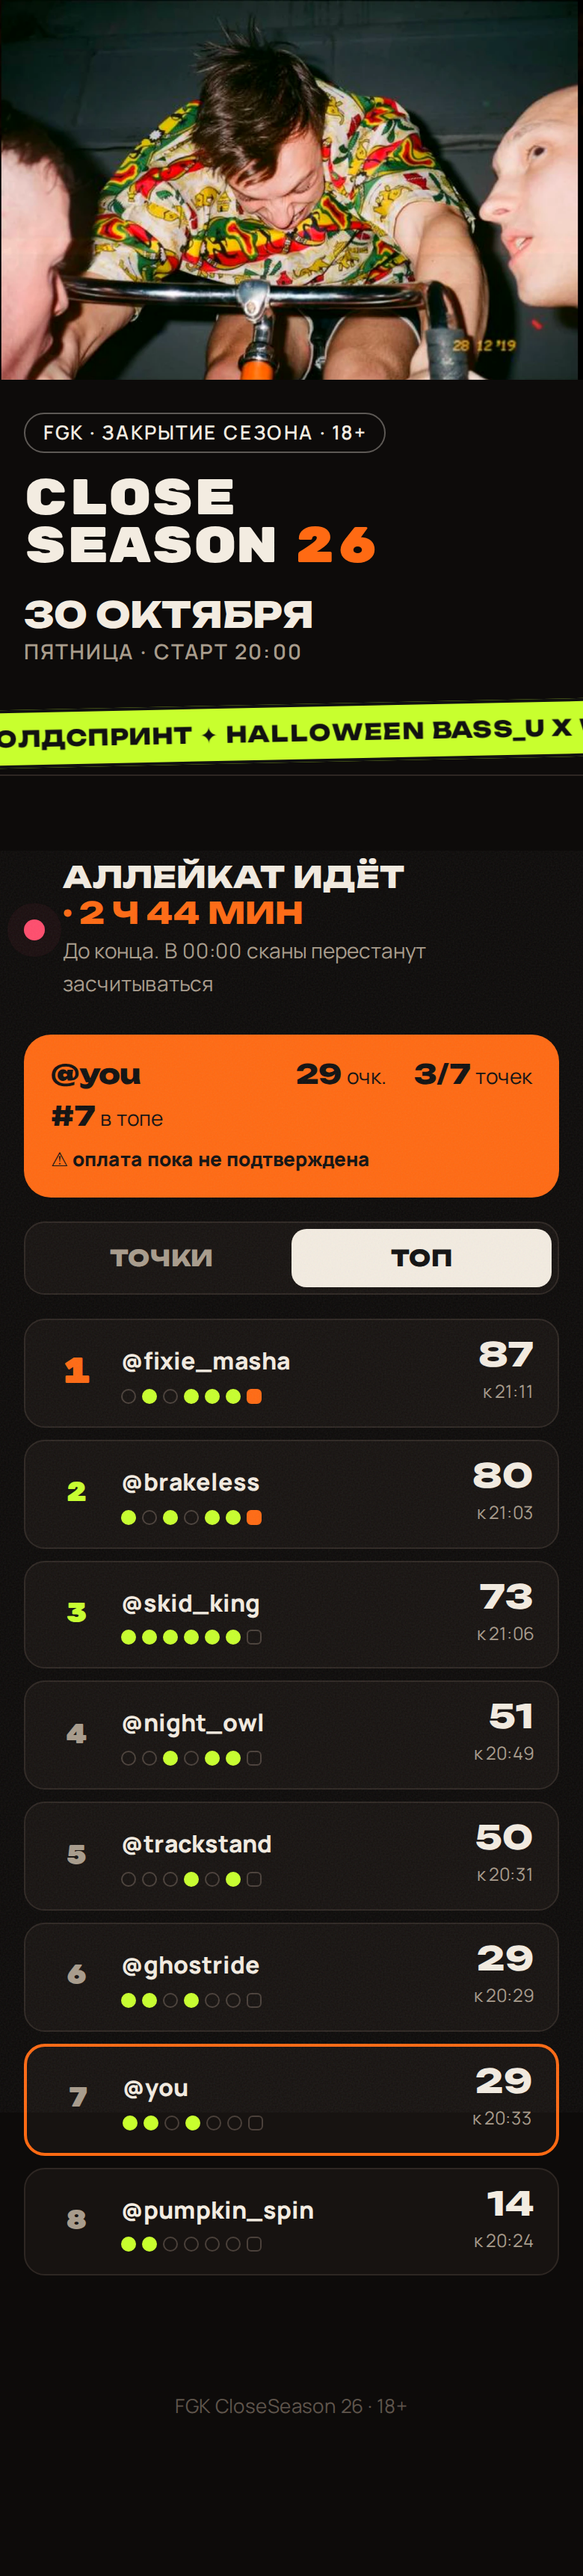
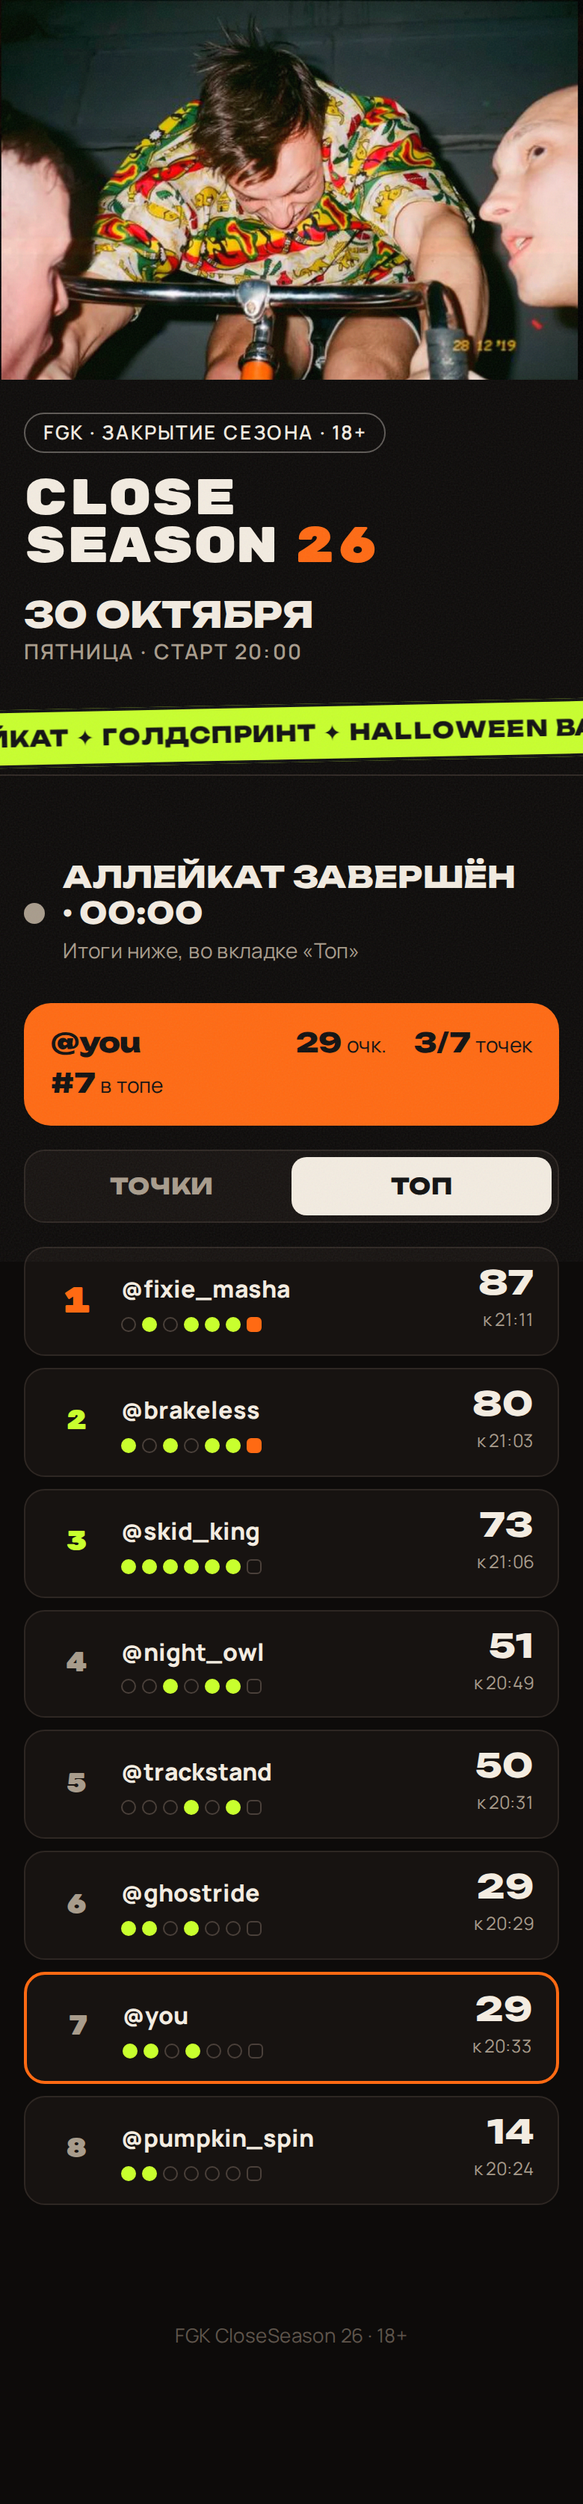
Во время гонки топ и «кто где был» скрыты от гонщиков
- сервер не отдаёт топ во время гонки; видно организатору (тестовый режим)
  и всем после конца аллейката
- гонщик видит свои отметки (статус «me»), без места и очков
- вкладка «Топ» появляется только когда топ открыт; демо-режим «Итоги»

Claude-Session: https://claude.ai/code/session_0122weFEyBkPzVmy7e3pz2TB

diff --git a/app.js b/app.js
@@ -30,6 +30,7 @@
   let clockOffset = 0; // серверное время − локальное
   let user = null; // { nick }
   let pendingScan = null; // скан, сделанный до входа
+  let myScans = []; // свои отметки: [[id точки, время]] — топ во время гонки скрыт
   let payment = null; // { amount, paid } - статус оплаты участника
 
   const now = () => Date.now() + clockOffset;
@@ -120,9 +121,11 @@
         return far ? { lat: c.lat + 0.015, lng: c.lng + 0.02, accuracy: 12 } : { lat: c.lat + 0.0002, lng: c.lng + 0.0002, accuracy: 12 };
       },
       async state() {
-        const t = mode === "reg" || mode === "pay" ? Date.now() : at(75);
-        const s = { now: t, start: START, end: Date.parse(R.end), radius: R.radius, open: t >= START };
-        if (s.open) Object.assign(s, { checkpoints: R.checkpoints, leaderboard: board() });
+        const END = Date.parse(R.end);
+        const t = mode === "reg" || mode === "pay" ? Date.now() : mode === "results" ? END + 10 * MIN : at(75);
+        const s = { now: t, start: START, end: END, radius: R.radius, open: t >= START, results: t > END };
+        if (s.open) s.checkpoints = R.checkpoints;
+        if (s.results) s.leaderboard = board(); // во время гонки топ скрыт
         return s;
       },
       async register(v) {
@@ -133,7 +136,7 @@
       },
       async me(nick) {
         const n = cleanNick(nick);
-        return { ok: true, nick: n, ...(regs[n] || { amount: price("М"), paid: false }) };
+        return { ok: true, nick: n, ...(regs[n] || { amount: price("М"), paid: false }), scans: n === R.demoUser.nick ? mine : [] };
       },
       async login(nick) {
         const n = cleanNick(nick);
@@ -205,10 +208,13 @@
 
   const cpName = (id) => ((state && state.checkpoints) || []).find((c) => c.id === id)?.name || "Точка";
 
+  // топ и «кто где был» приходят только организатору и после конца аллейката
+  const resultsOpen = () => Boolean(state && state.leaderboard);
+
   function myRow() {
     const board = (state && state.leaderboard) || [];
     const i = board.findIndex((r) => r.nick === user.nick);
-    return i >= 0 ? { ...board[i], place: i + 1 } : { nick: user.nick, score: 0, scans: [], place: null };
+    return i >= 0 ? { ...board[i], place: i + 1 } : { nick: user.nick, score: null, scans: myScans, place: null };
   }
 
   /* ================= загрузка ================= */
@@ -274,8 +280,11 @@
     $("race-join").hidden = Boolean(user);
     $("me").hidden = !user;
     if (user) renderMe();
+    // вкладка «Топ» только когда топ открыт
+    document.querySelector(".tabs").hidden = !resultsOpen();
+    if (!resultsOpen() && !$("tab-top").hidden) document.querySelector('[data-tab="points"]').click();
     renderCheckpoints();
-    renderBoard();
+    if (resultsOpen()) renderBoard();
   }
 
   // обычные точки (без финиша)
@@ -285,11 +294,12 @@
     const me = myRow();
     $("me").innerHTML =
       '<span class="me__nick">@' + esc(me.nick) + "</span>" +
-      '<span class="me__stat"><b>' + me.score + "</b> очк.</span>" +
+      (resultsOpen() ? '<span class="me__stat"><b>' + (me.score || 0) + "</b> очк.</span>" : "") +
       '<span class="me__stat"><b>' + me.scans.length + "/" + state.checkpoints.length + "</b> точек</span>" +
-      '<span class="me__stat me__place"><b>' + (me.place ? "#" + me.place : "-") + "</b> в топе</span>" +
+      (resultsOpen() ? '<span class="me__stat me__place"><b>' + (me.place ? "#" + me.place : "-") + "</b> в топе</span>" : "") +
       (payment && !payment.paid ? '<span class="me__warn">оплата пока не подтверждена</span>' : "");
   }
+
 
   // кто и когда уже отметил точку — по порядку прибытия
   function arrivals(cpId) {
@@ -316,8 +326,10 @@
           '<div class="cp__body">' +
           (c.final ? '<span class="cp__flag">финиш</span>' : "") +
           "<h3>" + esc(c.name) + "</h3>" +
-          '<p class="cp__meta">' + (n ? "приехали: " + n : "пока никого") +
-            (t ? ' · <b class="cp__mine">ты ' + (t[1] ? t[1] + "-й" : "✓") + "</b>" : "") + "</p>" +
+          '<p class="cp__meta">' +
+            (resultsOpen()
+              ? (n ? "приехали: " + n : "пока никого") + (t ? ' · <b class="cp__mine">ты ' + (t[1] ? t[1] + "-й" : "✓") + "</b>" : "")
+              : t ? '<b class="cp__mine">✓ взята в ' + fmtTime(t[0]) + "</b>" : user ? "не взята" : "") + "</p>" +
           "</div>" +
           (c.photo
             ? '<img class="cp__thumb" src="' + esc(preview(c.photo, 160)) + '" alt="" loading="lazy" onerror="this.remove()">'
@@ -355,6 +367,7 @@
           '<a class="cpd__photo" href="' + esc(c.qrPhoto) + '" target="_blank" rel="noopener" title="Открыть фото целиком">' +
           '<img src="' + esc(preview(c.qrPhoto)) + '" alt="Где висит QR: ' + esc(c.name) + '" loading="lazy" onerror="this.parentNode.remove()"></a>'
         : "") +
+      (!resultsOpen() ? "" :
       '<h3 class="cpd__sub">Уже приехали' + (who.length ? " · " + who.length : "") + "</h3>" +
       (who.length
         ? '<ol class="arrivals">' + who.map((x) =>
@@ -362,7 +375,7 @@
             '<span class="arrivals__place">' + x.place + "</span>" +
             '<span class="arrivals__nick">@' + esc(x.nick) + "</span>" +
             '<span class="arrivals__time">' + fmtTime(x.at) + "</span></li>").join("") + "</ol>"
-        : '<p class="cpd__empty">Пока никого. Приедешь первым, получишь больше всего очков.</p>');
+        : '<p class="cpd__empty">Пока никого.</p>'));
   }
 
   function openCpSheet(id) {
@@ -431,6 +444,7 @@
       $("login-error").textContent = "";
       signIn(res.nick);
       payment = { amount: res.amount, paid: res.paid };
+      await loadMyStatus();
       render();
       if (pendingScan) scan(...pendingScan);
     } catch (err) {
@@ -566,12 +580,10 @@
     if (res.already) return showSheet("ok", name, "Эта точка у тебя уже есть.", "Взята в " + fmtTime(res.at), "✓");
 
     await refresh();
-    const me = myRow();
+    await loadMyStatus();
     const isFinal = (state.checkpoints.find((c) => c.id === cp) || {}).final;
     showSheet("ok", name,
-      (res.place ? "Ты <b>" + res.place + "-й</b> на этой точке." : "") +
-        (me.place ? "<br>Теперь ты <b>#" + me.place + "</b> в топе." : "") +
-        (isFinal ? "<br>Финиш! Паркуй велик, внутри награждение и туса." : ""),
+      isFinal ? "Финиш! Паркуй велик, внутри награждение и туса." : "Гони к следующей точке.",
       "Точка засчитана · " + fmtTime(res.at), "✓");
   }
 
@@ -686,6 +698,7 @@
       const res = await api.me(user.nick);
       if (!res.ok) return;
       payment = { amount: res.amount, paid: res.paid };
+      if (res.scans) myScans = res.scans;
       if (!raceOn()) showDone(res, "@" + res.nick + ", ты в списке. " + startPhrase() + " здесь появятся точки маршрута.");
       else render();
     } catch (err) { /* статус оплаты не критичен - покажем в следующий раз */ }
@@ -724,6 +737,7 @@
     if (!["reg", "pay", "guest", "scan-guest"].includes(mode)) signIn(window.RACE.demoUser.nick);
     if (mode === "racer") payment = { amount: 300, paid: false };
     await refresh();
+    if (user && mode !== "pay") await loadMyStatus();
     if (mode === "pay") {
       const res = await demo.register({ telegram: "night_rider", gender: "М" });
       signIn(res.nick);
@@ -762,5 +776,5 @@
   })();
 
   // во время гонки обновляем топ, до старта - только отсчёт
-  setInterval(() => (raceOn() ? refresh() : state && tickCountdown()), 20 * 1000);
+  setInterval(() => (raceOn() ? refresh().then(loadMyStatus) : state && tickCountdown()), 20 * 1000);
 })();

diff --git a/server/test/server.test.js b/server/test/server.test.js
@@ -39,10 +39,14 @@ const [c1,c2,fin]=pts.map(old);
 let r=post({action:'scan',nick:'bob_1',cp:'c1',k:c1[7],lat:c1[3],lng:c1[4],accuracy:10}); assert.equal(r.ok,false); assert.match(r.error,/старта/);
 setStart(Date.now()-60e3);
 assert.equal(post({action:'register',telegram:'late',gender:'М',payment:'x'}).ok,false);
-st=get(); assert.equal(st.open,true); assert.equal(st.checkpoints.length,3); assert.ok(!('secret' in st.checkpoints[0])); assert.deepEqual(st.leaderboard,[]);
+st=get(); assert.equal(st.open,true); assert.equal(st.checkpoints.length,3); assert.ok(!('secret' in st.checkpoints[0]));
+assert.equal(st.leaderboard,undefined,'во время гонки топ скрыт'); assert.equal(st.results,false);
+const ADMIN=S('Настройки').data.find(r=>r[0]==='Ключ администратора')[1];
+const getLB=()=>{cache.clear(); return JSON.parse(ctx.doGet({parameter:{action:'state',test:ADMIN}}).s).leaderboard;};
+assert.deepEqual(getLB(),[]);
 r=post({action:'scan',nick:'bob_1',cp:'c1',k:'wrong',lat:c1[3],lng:c1[4]}); assert.match(r.error,/не подошёл/);
 r=post({action:'scan',nick:'bob_1',cp:'c1',k:c1[7],lat:c1[3]+0.01,lng:c1[4],accuracy:10}); assert.equal(r.far,true); 
-r=post({action:'scan',nick:'bob_1',cp:'c1',k:c1[7],lat:c1[3]+0.001,lng:c1[4],accuracy:10}); assert.equal(r.ok,true); assert.equal(r.value,10,'первый на точке ×1'); assert.equal(r.place,1); 
+r=post({action:'scan',nick:'bob_1',cp:'c1',k:c1[7],lat:c1[3]+0.001,lng:c1[4],accuracy:10}); assert.equal(r.ok,true); assert.equal(r.place,undefined,'место не отдаём'); 
 r=post({action:'scan',nick:'bob_1',cp:'c1',k:c1[7],lat:c1[3],lng:c1[4]}); assert.equal(r.already,true);
 r=post({action:'scan',nick:'blocked_guy',cp:'c1',k:c1[7],lat:c1[3],lng:c1[4]}); assert.match(r.error,/не допущен/);
 r=post({action:'scan',nick:'ghost',cp:'c1',k:c1[7],lat:c1[3],lng:c1[4]}); assert.match(r.error,/Войди/);
@@ -51,7 +55,7 @@ r=post({action:'scan',nick:'fixie_masha',cp:'c2',k:c2[7],lat:c2[3],lng:c2[4],acc
 r=post({action:'scan',nick:'bob_1',cp:'c2',k:c2[7],lat:c2[3],lng:c2[4],accuracy:5}); assert.equal(r.ok,true);
 st=get();
 // c2 ценность 2: masha первая (20), bob второй (18); c1: bob первый (10)
-assert.deepEqual(st.leaderboard.map(x=>[x.nick,x.score]),[['bob_1',28],['fixie_masha',20]]);
+assert.deepEqual(getLB().map(x=>[x.nick,x.score]),[['bob_1',28],['fixie_masha',20]]);
 // «Гонка только после оплаты»
 S('Настройки').data.find(r=>r[0]==='Гонка только после оплаты')[1]='да';
 r=post({action:'scan',nick:'early_bird',cp:'c1',k:c1[7],lat:c1[3],lng:c1[4],accuracy:5}); assert.match(r.error,/Оплата/);
@@ -59,8 +63,8 @@ S('Настройки').data.find(r=>r[0]==='Гонка только после 
 // повторный setup не затирает настройки и не дублирует строки
 const before=JSON.stringify(S('Настройки').data); ctx.setup(); assert.equal(JSON.stringify(S('Настройки').data),before);
 r=post({action:'scan',nick:'fixie_masha',cp:'c1',k:c1[7],lat:c1[3],lng:c1[4],accuracy:5}); 
-st=get(); assert.deepEqual(st.leaderboard.map(x=>[x.nick,x.score]),[['fixie_masha',29],['bob_1',28]],'masha вторая на c1: +9');
-assert.deepEqual(st.leaderboard[0].scans.map(x=>x.slice(2)),[[1,20],[2,9]],'в топе видно место и очки на каждой точке');
+const L=getLB(); assert.deepEqual(L.map(x=>[x.nick,x.score]),[['fixie_masha',29],['bob_1',28]],'masha вторая на c1: +9');
+assert.deepEqual(L[0].scans.map(x=>x.slice(2)),[[1,20],[2,9]],'в топе видно место и очки на каждой точке');
 // правило очков: минимум, множитель, равенство по времени
 { const sx={firstPoints:3,minPoints:1}; const P=[{id:'a',value:1},{id:'b',value:2},{id:'f',value:5,final:true}];
   const sc=[['u1','a',1],['u2','a',2],['u3','a',3],['u4','a',4],['u4','b',5],['u3','b',6],['u1','f',7]].map(([nick,cp,at])=>({nick,cp,at}));
@@ -189,13 +193,19 @@ const NEW_HEAD=["ID","Название","Координаты","Ценность
   const row=id=>S9('Точки').data.find(r=>r[0]===id); const fin=row('fin'), c1=row('c1');
   assert.match(fin[6],/\?cp=fin&k=/,'у финиша есть QR');
   const at=r=>r[2].split(',').map(Number);
-  let r=post({action:'scan',nick:'rider1',cp:'fin',k:fin[5],lat:at(fin)[0],lng:at(fin)[1]}); assert.equal(r.ok,true); assert.equal(r.value,50,'финиш ×5, первый');
+  let r=post({action:'scan',nick:'rider1',cp:'fin',k:fin[5],lat:at(fin)[0],lng:at(fin)[1]}); assert.equal(r.ok,true);
   r=post({action:'scan',nick:'rider1',cp:'c1',k:c1[5],lat:at(c1)[0],lng:at(c1)[1]}); assert.match(r.error,/после него/);
-  g9.cache.clear(); const lb=JSON.parse(g9.ctx.doGet({parameter:{action:'state'}}).s).leaderboard;
+  const K9=S9('Настройки').data.find(r=>r[0]==='Ключ администратора')[1];
+  g9.cache.clear(); const lb=JSON.parse(g9.ctx.doGet({parameter:{action:'state',test:K9}}).s).leaderboard;
   assert.deepEqual(lb.map(x=>[x.nick,x.score,x.finished]),[['rider1',50,true]]);
   // строка после финиша, попавшая в «Сканы» вручную, не считается
   const t=Date.now()+5000; S9('Сканы').data.push([new Date(t),'rider1','c2',20,0,5,'ok']); g9.cache.clear();
-  assert.equal(JSON.parse(g9.ctx.doGet({parameter:{action:'state'}}).s).leaderboard[0].score,50);
+  assert.equal(JSON.parse(g9.ctx.doGet({parameter:{action:'state',test:K9}}).s).leaderboard[0].score,50);
+  // гонщик видит свои отметки, но не топ; после конца топ открыт всем
+  const me=JSON.parse(g9.ctx.doGet({parameter:{action:'me',nick:'rider1'}}).s); assert.deepEqual(me.scans.map(x=>x[0]),['fin']);
+  assert.equal(JSON.parse(g9.ctx.doGet({parameter:{action:'state'}}).s).leaderboard,undefined);
+  S9('Настройки').data.find(r=>r[0]==='Конец')[1]=new Date(Date.now()-1).toISOString(); g9.cache.clear();
+  const after=JSON.parse(g9.ctx.doGet({parameter:{action:'state'}}).s); assert.equal(after.results,true); assert.equal(after.leaderboard[0].nick,'rider1');
 }
 
 // конец аллейката: после него сканы не принимаются, тестовые работают

diff --git a/index.html b/index.html
@@ -9,7 +9,7 @@
   <link rel="preconnect" href="https://fonts.googleapis.com">
   <link rel="preconnect" href="https://fonts.gstatic.com" crossorigin>
   <link href="https://fonts.googleapis.com/css2?family=Rubik+Mono+One&family=Unbounded:wght@500;800&family=Manrope:wght@400;600;800&display=swap" rel="stylesheet">
-  <link rel="stylesheet" href="style.css?v=202610071035">
+  <link rel="stylesheet" href="style.css?v=202610071039">
 </head>
 <body>
   <div class="grain" aria-hidden="true"></div>
@@ -194,11 +194,11 @@
           <details class="howto">
             <summary>Как это работает</summary>
             <ol>
-              <li>Точки берёшь в любом порядке. Нажми на точку: там фото, где висит QR-код, описание и кто уже приехал.</li>
+              <li>Точки берёшь в любом порядке. Нажми на точку: там фото, описание и фото места, где висит QR-код.</li>
               <li>Сканируешь его камерой телефона, откроется этот сайт.</li>
               <li>Разрешаешь геолокацию: скан засчитывается, только если ты рядом с точкой.</li>
               <li>Кто первым приехал на точку, получает больше всего очков, каждый следующий на 1 меньше. Ценность точки (×2) умножает очки.</li>
-              <li>Побеждает тот, у кого больше очков. При равенстве выше тот, кто набрал их раньше.</li>
+              <li>Побеждает тот, у кого больше очков. При равенстве выше тот, кто набрал их раньше. Кто где был и топ откроются после конца аллейката.</li>
               <li>Финиш в верке отмечаешь последним: после него точки не засчитываются.</li>
             </ol>
           </details>
@@ -242,14 +242,15 @@
     <button type="button" data-demo="scan-ok">Скан ✓</button>
     <button type="button" data-demo="scan-far">Скан ✗</button>
     <button type="button" data-demo="scan-guest">Скан без входа</button>
+    <button type="button" data-demo="results">Итоги</button>
   </nav>
 
   <footer class="footer">
     <p>FGK CloseSeason 26 · 18+</p>
   </footer>
 
-  <script src="config.js?v=202610071035"></script>
-  <script src="data.js?v=202610071035"></script>
-  <script src="app.js?v=202610071035"></script>
+  <script src="config.js?v=202610071039"></script>
+  <script src="data.js?v=202610071039"></script>
+  <script src="app.js?v=202610071039"></script>
 </body>
 </html>
